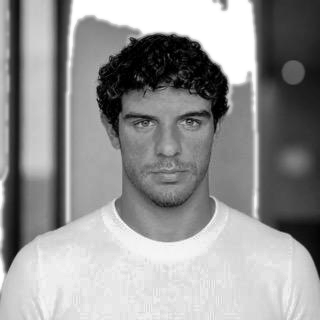
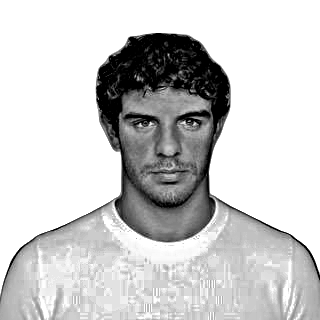
feat: rembg portrait cutout, local contrast, 90 columns
Claude-Session: https://claude.ai/code/session_016odM8X6QaUDfD8zNozKghp

diff --git a/scripts/prep_photo.py b/scripts/prep_photo.py
@@ -5,7 +5,7 @@ Steps:
 2. Remove the background: flood-fill from the four corners with a colour
    tolerance, so any background connected to the edges becomes white.
    (If the optional `rembg` package is installed it is used instead.)
-3. Boost local contrast (CLAHE-like via Pillow autocontrast + equalize blend).
+3. Boost global and local contrast (autocontrast/equalize blend + unsharp mask).
 4. Composite on white and save as data/portrait.png (grayscale).
 
 Usage:
@@ -22,12 +22,13 @@ OUT = Path(sys.argv[2]) if len(sys.argv) > 2 else Path("data/portrait.png")
 
 def remove_background(img: Image.Image) -> Image.Image:
     """Return an RGBA image with the background made transparent."""
-    try:  # best quality when available (heavy dependency, optional)
-        from rembg import remove  # type: ignore
+    try:  # best quality when available (optional dependency)
+        from rembg import new_session, remove  # type: ignore
 
-        return remove(img.convert("RGBA"))
-    except Exception:
-        pass
+        session = new_session("u2net_human_seg")  # ~170 MB, made for portraits
+        return remove(img.convert("RGBA"), session=session)
+    except Exception as exc:  # fall back to the flood fill below
+        print(f"rembg unavailable ({exc.__class__.__name__}); using flood-fill fallback")
 
     rgb = img.convert("RGB")
     # Work on a slightly blurred copy so JPEG noise does not stop the fill.
@@ -80,6 +81,8 @@ def main() -> None:
     eq = ImageOps.equalize(flat)
     ac = ImageOps.autocontrast(flat, cutoff=1)
     flat = Image.blend(ac, eq, 0.35)
+    # Local contrast so eyes, nose and mouth survive the downscale.
+    flat = flat.filter(ImageFilter.UnsharpMask(radius=6, percent=120, threshold=2))
 
     OUT.parent.mkdir(parents=True, exist_ok=True)
     flat.save(OUT)

diff --git a/scripts/make_ascii_svg.py b/scripts/make_ascii_svg.py
@@ -7,7 +7,7 @@ no JavaScript, so it animates inside GitHub's <img> sandbox.
 Usage:
     python scripts/make_ascii_svg.py [input.png] [output.svg]
 Env:
-    COLS   number of character columns (default 84)
+    COLS   number of character columns (default 90)
     STATIC set to 1 to skip the animation (useful for previews)
 """
 import os
@@ -21,7 +21,7 @@ from PIL import Image
 SRC = Path(sys.argv[1]) if len(sys.argv) > 1 else Path("data/portrait.png")
 OUT = Path(sys.argv[2]) if len(sys.argv) > 2 else Path("felipe-ascii.svg")
 
-COLS = int(os.environ.get("COLS", "84"))
+COLS = int(os.environ.get("COLS", "90"))
 STATIC = os.environ.get("STATIC") == "1"
 
 # Light to dark; leading space makes a white background vanish.
